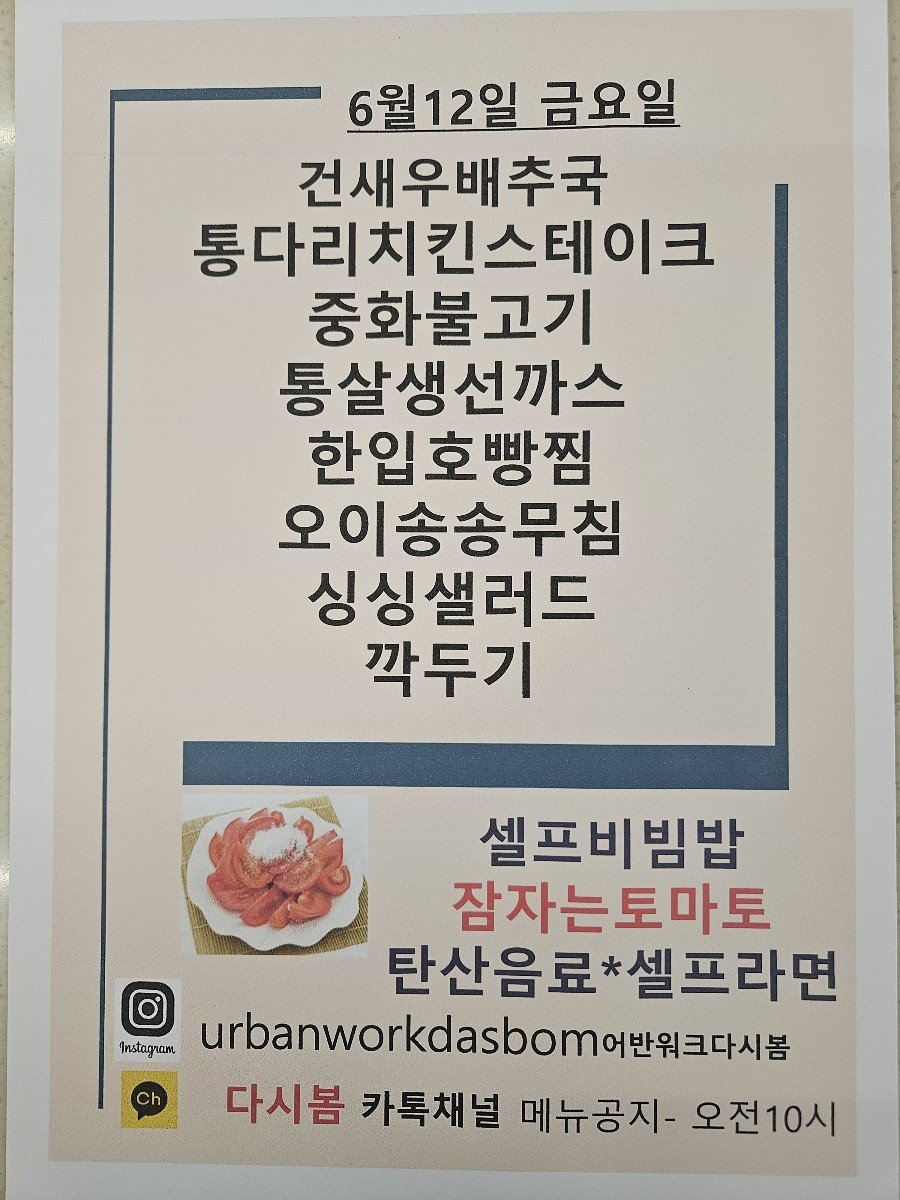
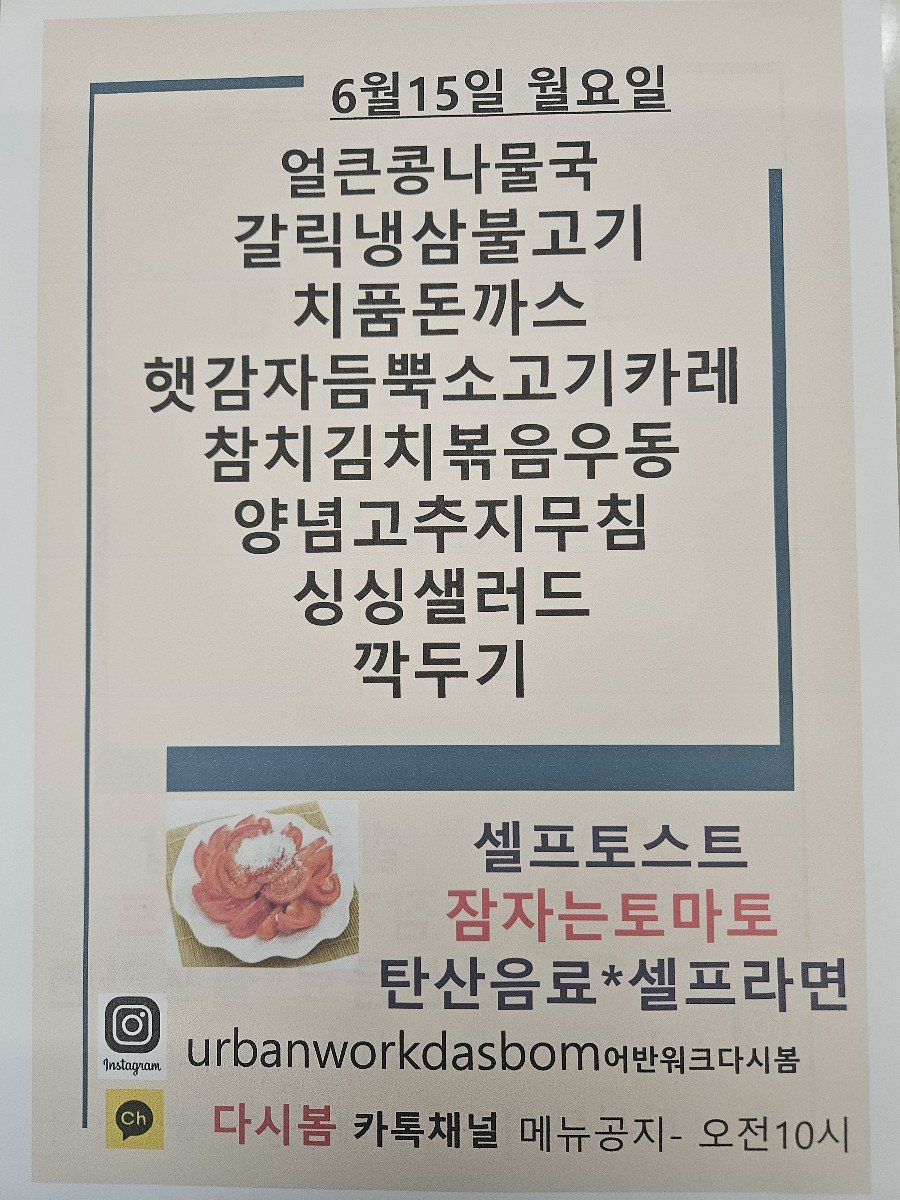
Update menu board assets

diff --git a/menu-today/index.html b/menu-today/index.html
@@ -209,7 +209,7 @@
 
     <section class="meta-bar">
       <div class="meta-card"><div class="meta-label">기준 날짜</div><div class="meta-value">2026년 6월 15일 월요일</div></div>
-      <div class="meta-card"><div class="meta-label">최종 가져온 시간</div><div class="meta-value">2026-06-15 09:13:30</div></div>
+      <div class="meta-card"><div class="meta-label">최종 가져온 시간</div><div class="meta-value">2026-06-15 09:18:21</div></div>
       <div class="meta-card"><div class="meta-label">확인 완료</div><div class="meta-value">10개 식당</div></div>
       <div class="meta-card"><div class="meta-label">준비중</div><div class="meta-value">3개 채널</div></div>
     </section>
@@ -235,7 +235,7 @@
             <div class="sub">가산 어반워크</div>
           </div>
         </div>
-        <div class="menu-inline-image"><img src="./images/dasibom.png" alt="다시 봄 식단 이미지"></div><ul><li>건새우배추국</li><li>통다리치킨스테이크</li><li>중화불고기</li><li>통살생선까스</li><li>한입호방찜</li><li>오이송송무침</li><li>싱싱샐러드</li><li>Ne 잠자는토마토</li><li>한입호빵찜</li><li>잠자는토마토</li><li>건새우배주국</li></ul>
+        <div class="menu-inline-image"><img src="./images/dasibom.png" alt="다시 봄 식단 이미지"></div><ul><li>얼큰콩나물국</li><li>갈릭냉삼불고기</li><li>지품돈까스</li><li>참치김치볶음우동</li><li>양념고추지무침</li><li>싱싱샐러드</li><li>갈릭 냉삼불</li><li>불고기</li><li>치 품돈까스</li></ul>
       </article>
 
       <article class="restaurant-card">
